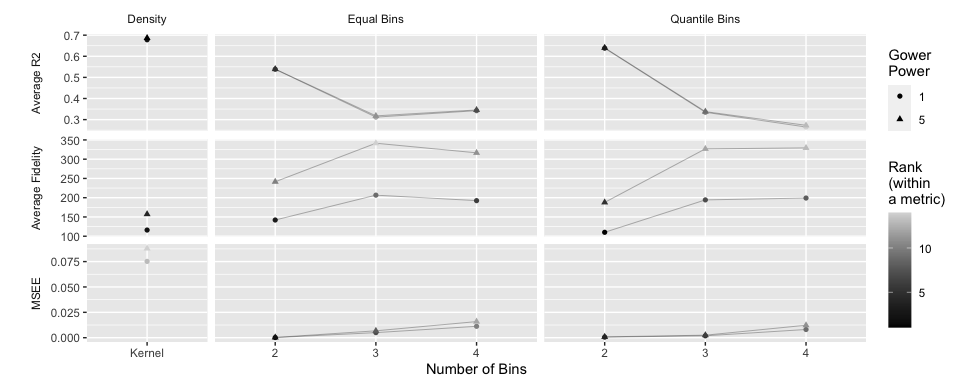
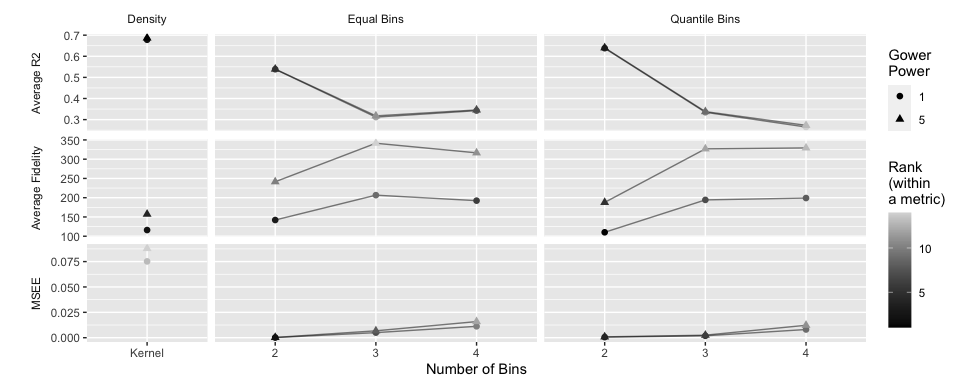
added options for changing line size, line alpha, and point size for plot_metrics

diff --git a/README.md b/README.md
@@ -62,7 +62,7 @@ plot_feature_heatmap(explanations, order_method = "PCA")
 
 ``` r
 # Create a plot of metrics for comparing the lime implementations
-plot_metrics(explanations, add_lines = TRUE)
+plot_metrics(explanations, add_lines = TRUE, line_alpha = 0.5)
 ```
 
 ![](README_files/figure-gfm/unnamed-chunk-4-1.png)<!-- -->
